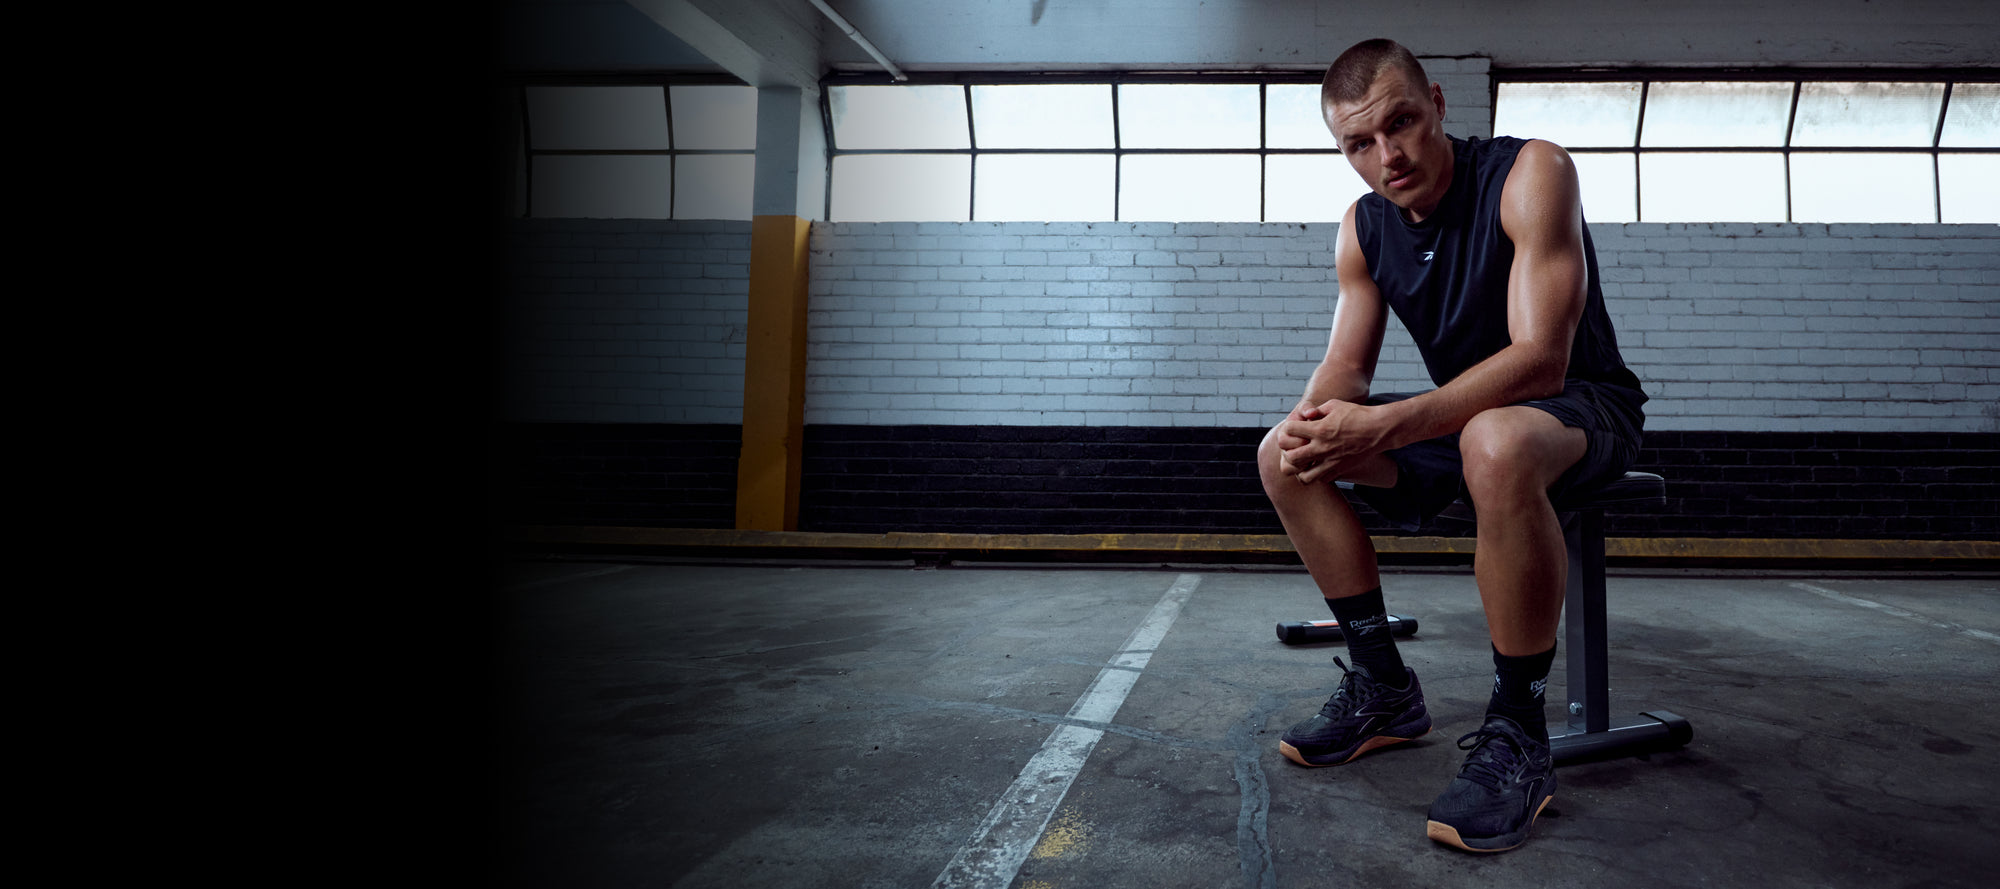
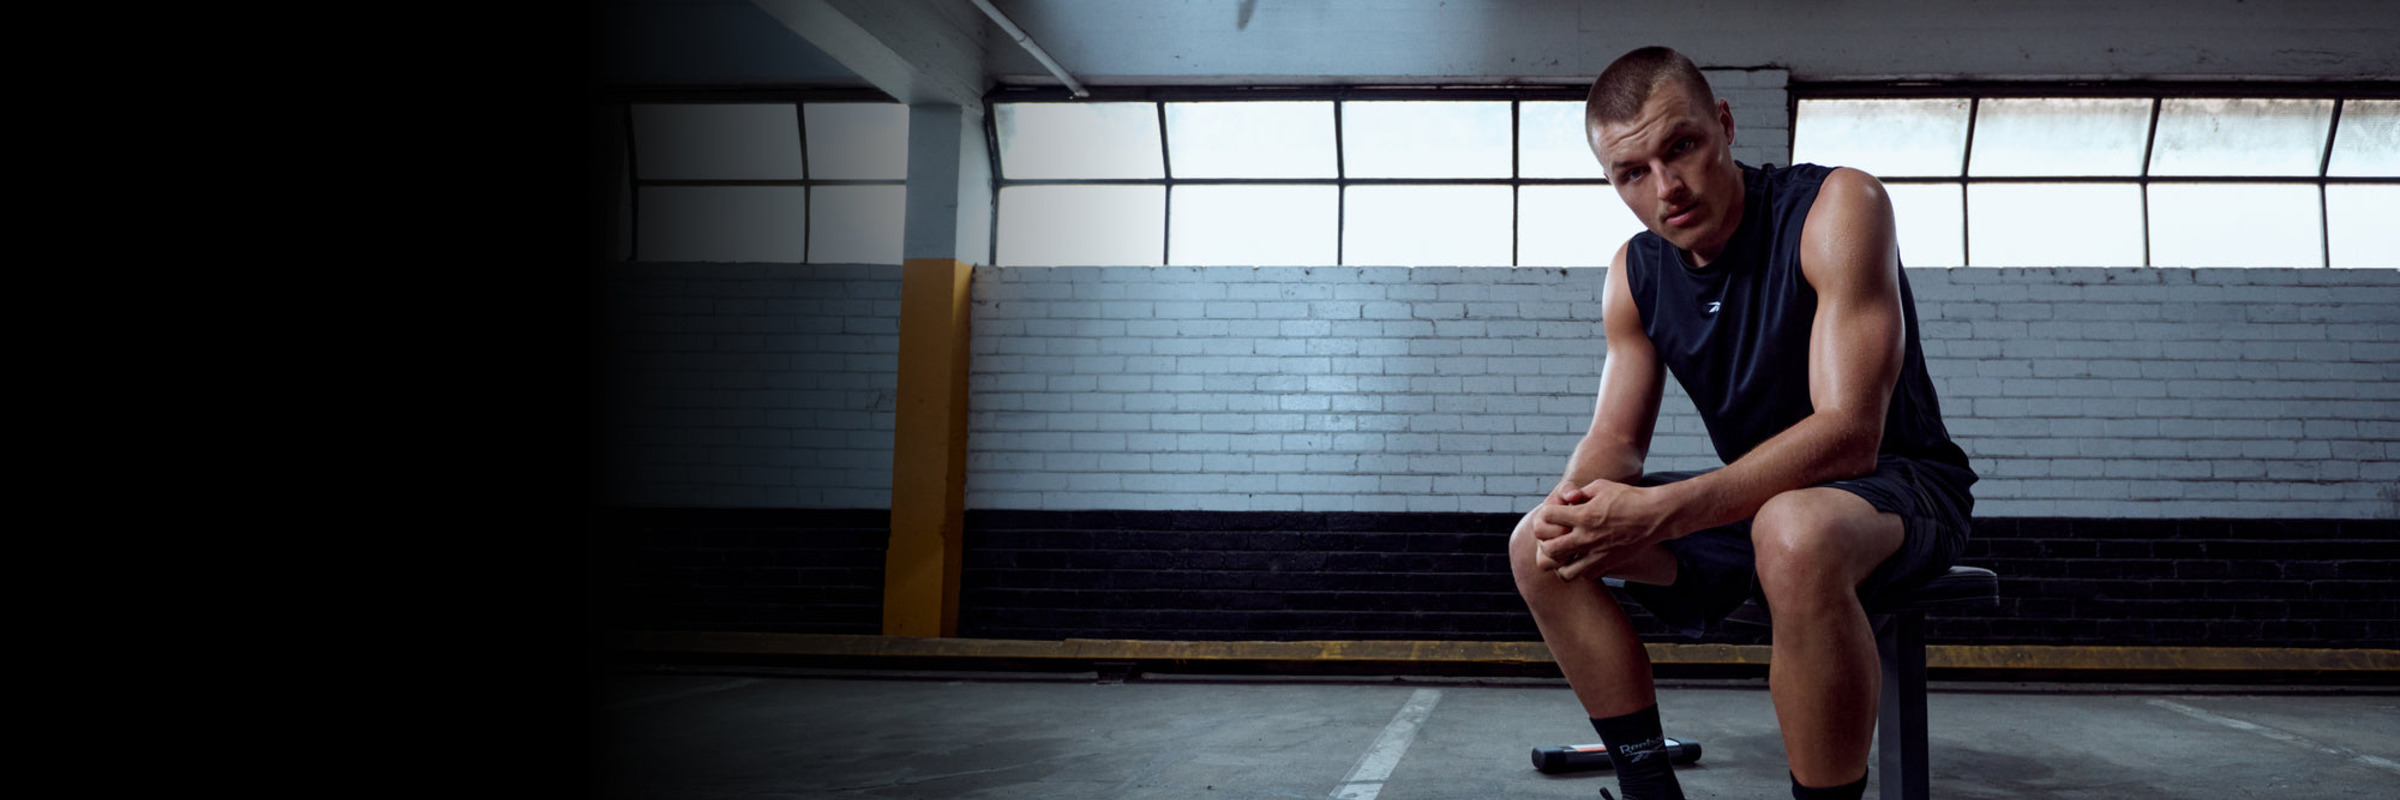
All hero images resized to 2400x800 spec — gravity North preserves heads

diff --git a/marketplace/index.html b/marketplace/index.html
@@ -36,7 +36,7 @@ body.light-mode .nl.sale{color:var(--tc)}body.light-mode .nl.sale:hover{color:#b
 .hero-brand-sns{background:#FF4B0F!important}.hero-brand-sns .hero-bg::after{display:none}.hero-brand-sns .hrc .hrt{color:var(--wh)}.hero-brand-sns .hrc .ey{color:var(--wh);opacity:.8}.hero-brand-sns .hrc .hrs{color:rgba(255,255,255,.75)}.hero-brand-sns .hrc .bo{color:var(--wh);border-color:rgba(255,255,255,.5)}.hero-brand-sns .hrc .bo:hover{border-color:var(--wh)}
 .hero-elka{background:#1a1a1a!important}.hero-elka .hero-bg{left:45%;background-size:contain;background-repeat:no-repeat;background-position:center right;opacity:.9}.hero-elka .hero-bg::after{display:none}
 @media(max-width:768px){.hero-mosaic{grid-template-columns:1fr 1fr;grid-template-rows:1fr 1fr 1fr;gap:2px}.hero-mosaic-cell img{filter:brightness(.45)}.hero-mosaic:hover .hero-mosaic-cell img{filter:brightness(.4)}}.hero{height:80vh;max-height:800px;min-height:500px;position:relative;overflow:hidden;display:flex;align-items:center;justify-content:flex-start;background:#f5f1ee}
-.hero-bg{position:absolute;inset:0;background-size:contain;background-position:center;background-repeat:no-repeat;opacity:1}.hero-bg::after{display:none}
+.hero-bg{position:absolute;inset:0;background-size:cover;background-position:center;opacity:1}.hero-bg::after{display:none}
 .hrc{position:relative;z-index:2;text-align:left;max-width:800px;padding:0 32px;text-shadow:none}
 .hrc .bw,.hrc .bo,.hrc .btn-err,.hrc .hra a{text-shadow:none}
 .hero-dark .hrc .ey{color:var(--wh);opacity:.7}.hero-dark .hrc .hrt{color:var(--wh);text-shadow:0 2px 20px rgba(0,0,0,.4)}.hero-dark .hrc .hrs{color:rgba(255,255,255,.6)}.hero-dark .hrc .bo{color:var(--wh);border-color:rgba(255,255,255,.4)}.hero-dark .hrc .bo:hover{border-color:var(--wh);background:rgba(255,255,255,.08)}
